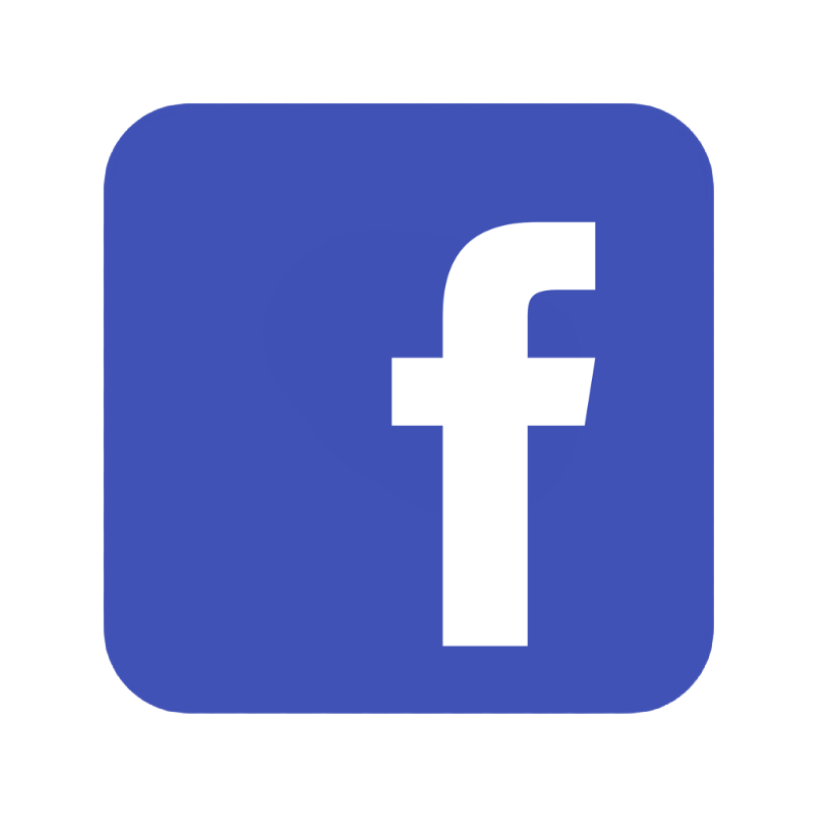
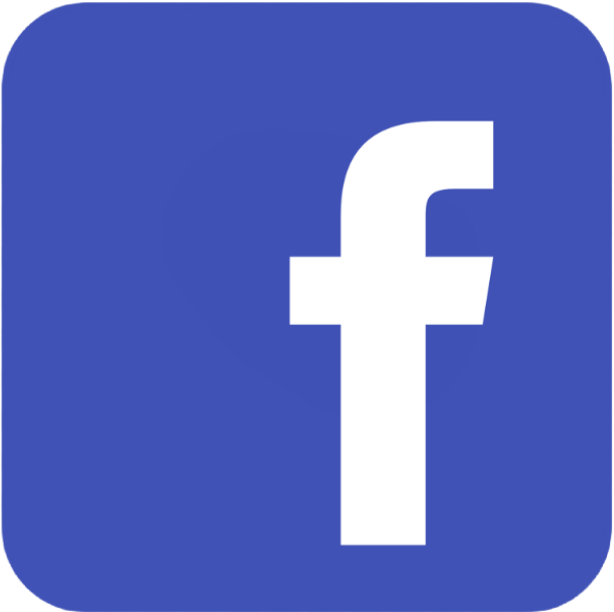
Implementação dos links das redes sociais

diff --git a/estilos/estilo.css b/estilos/estilo.css
@@ -64,7 +64,7 @@ nav button {
     border: none;
     border-radius: 10px;
     padding: 5px;
-    box-shadow: 0px 1px 5px;
+    box-shadow: 0px 1px 5px rgba(0, 0, 0, 0.425);
     align-content: center;
 }
 
@@ -76,6 +76,7 @@ section {
     flex-direction: column;
     justify-content: center;
     border-radius: 30px;
+    box-shadow: 0px 1px 10px rgba(0, 0, 0, 0.425);
 }
 
 section h1, h3{
@@ -86,7 +87,7 @@ section h3 {
     margin-top: 10px;
 }
 
-section p {
+section > div > p {
     text-align: justify;
     margin-left: 5px;
     margin-right: 5px;
@@ -168,7 +169,7 @@ div#foto_ventosaterapia_2 {
 section#sobre {
     background-color: #ffede5;
     width: 100%;
-    height: 900px;
+    height: auto;
     margin: 0px;
     border-radius: 30px 30px 0px 0px;
     box-shadow: 0px 2px 3px;
@@ -197,20 +198,45 @@ section#sobre > div > iframe {
     height: 350px;
 }
 
-section#sobre div > ul{
-    margin-left: 20px;
+section#sobre div#container_midias_sociais{
+    width: 100%;
+    margin-top: 10px;
+    margin-bottom: 10px;
+    display: flex;
+    gap: 100px;
+    justify-content: center;
+}
+
+section#sobre div#container_midias_sociais a{
+    width: 100px;
+    height: 80px;
     margin-bottom: 10px;
 }
 
-section#sobre > div > ul > li > a {
+section#sobre div#container_midias_sociais > a > div{
+    width: 50%;
+    height: 50px;
+    background-size: cover;
+    border-radius: 50px;
+    margin: auto;
+}
+
+section#sobre div#container_midias_sociais div#icon_facebook {
+    background-image: url(../imagens/facebook.png);
+}
+
+section#sobre div#container_midias_sociais div#icon_instagram {
+    background-image: url(../imagens/instagram.png);
+}
+
+section#sobre div#container_midias_sociais a{
     text-decoration: none;
     color: black;
 }
-section#sobre > div > ul > li > a> img {
-    display: inline;
-    width: 20px;
-    height: 20px;
-    margin-right: 5px;
+
+section#sobre div#container_midias_sociais a p{
+    margin-top: 0px;
+    text-indent: 0px;
 }
 
 footer {

diff --git a/index.html b/index.html
@@ -183,11 +183,18 @@
 
                 <h3>Mídias Sociais</h3>
 
-                <ul type="none">
-                    <li><a href="#"> <img src="./imagens/facebook.png" alt="">Sol e Bem-estar</a></li>
-
-                    <li><a href="#"><img src="./imagens/instagram.png" alt="">Sol e Bem-estar</a></li>
-                </ul>
+                <div id="container_midias_sociais">
+                    <a href="https://www.facebook.com/profile.php?id=61580856731348">
+                        <div id="icon_facebook"></div>
+                        
+                        <p>Sol e Bem-Estar</p>
+                    </a>
+                    <a href="https://www.instagram.com/solebemestar/">
+                        <div id="icon_instagram"></div>
+                        
+                        <p>Sol e Bem-Estar</p>
+                    </a>
+                </div>
             </div>
         </section>
     </main>
